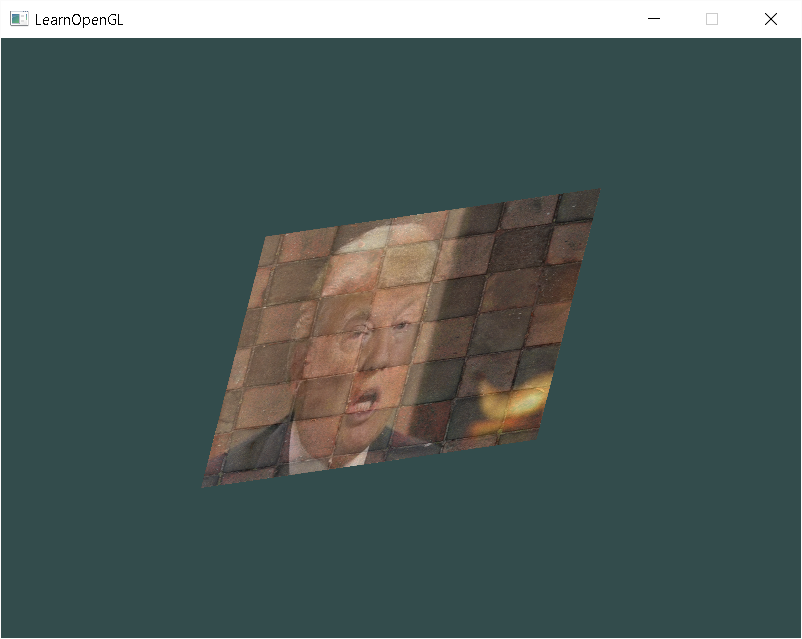
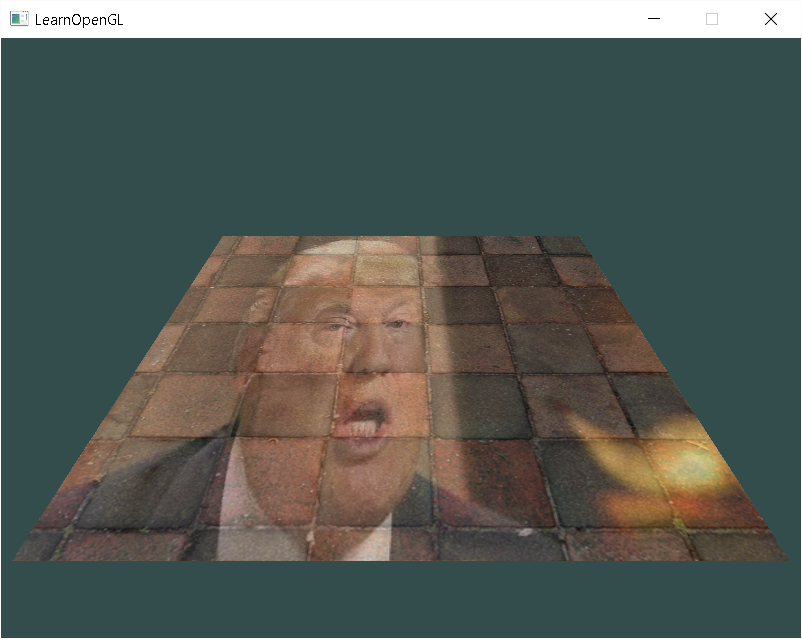
Trump in perspective

Changed region(s): [[0.0, 0.2973, 0.9663, 0.892]]

diff --git a/OpenGlFirst/Test.cpp b/OpenGlFirst/Test.cpp
@@ -136,7 +136,7 @@ int main()
     SOIL_free_image_data(image);
     glBindTexture(GL_TEXTURE_2D, 0);
 
-	// Specify orthogonal projection matrix
+		// Specify orthogonal projection matrix
 	glm::ortho
 		( 
 		0.0f,	// left coordinate
@@ -146,8 +146,23 @@ int main()
 		0.1f,   // distance to near plane
 		100.f	// to far planef
 		);
+	
+	
 
-    // Game loop
+	// Init model matrix and pitch it(x-axis) by 55 degrees.
+	glm::mat4 model;
+	model = glm::rotate(model, glm::radians(-55.0f), glm::vec3(1.0f, 0.0f, 0.0f));
+
+	// Move all the scene far by z-axis by 3 units
+	glm::mat4 view;
+	view = glm::translate(view, glm::vec3(0.f, 0.f, -1.1f));
+
+	// Projection matrix.
+	glm::mat4 projection;
+	projection = glm::perspective(45.0f, (float)WIDTH/(float)HEIGHT, 0.1f, 100.f);
+
+
+	// Game loop
     while (!glfwWindowShouldClose(window))
     {
         // Check if any events have been activiated (key pressed, mouse moved etc.) and call corresponding response functions
@@ -157,6 +172,18 @@ int main()
         // Clear the colorbuffer
         glClearColor(0.2f, 0.3f, 0.3f, 1.0f);
         glClear(GL_COLOR_BUFFER_BIT);
+
+	
+	// Create uniforms for model, view and proj matrices
+	GLint modelLoc = glGetUniformLocation(ourShader.Program, "model");
+	GLint viewLoc = glGetUniformLocation(ourShader.Program, "view");
+	GLint projLoc = glGetUniformLocation(ourShader.Program, "projection");
+	
+	glUniformMatrix4fv(modelLoc, 1, GL_FALSE, glm::value_ptr(model));
+	glUniformMatrix4fv(viewLoc, 1, GL_FALSE, glm::value_ptr(view));
+	glUniformMatrix4fv(projLoc, 1, GL_FALSE, glm::value_ptr(projection));
+
+	
 
 
         // Bind Textures using texture units
@@ -170,15 +197,7 @@ int main()
         // Activate shader
         ourShader.Use();       
 
-        // Create transformations
-        glm::mat4 transform;
-        transform = glm::translate(transform, glm::vec3(0.f, 0.f, 0.f));
-		transform = glm::rotate(transform, (GLfloat)glfwGetTime() * 1.5f, glm::vec3(1.0f, 1.0f, 0.0f));
-		// Get matrix's uniform location and set matrix
-        GLint transformLoc = glGetUniformLocation(ourShader.Program, "transform");
-        glUniformMatrix4fv(transformLoc, 1, GL_FALSE, glm::value_ptr(transform));
-        
-        // Draw container
+       // Draw container
         glBindVertexArray(VAO);
         glDrawElements(GL_TRIANGLES, 6, GL_UNSIGNED_INT, 0);
         glBindVertexArray(0);
